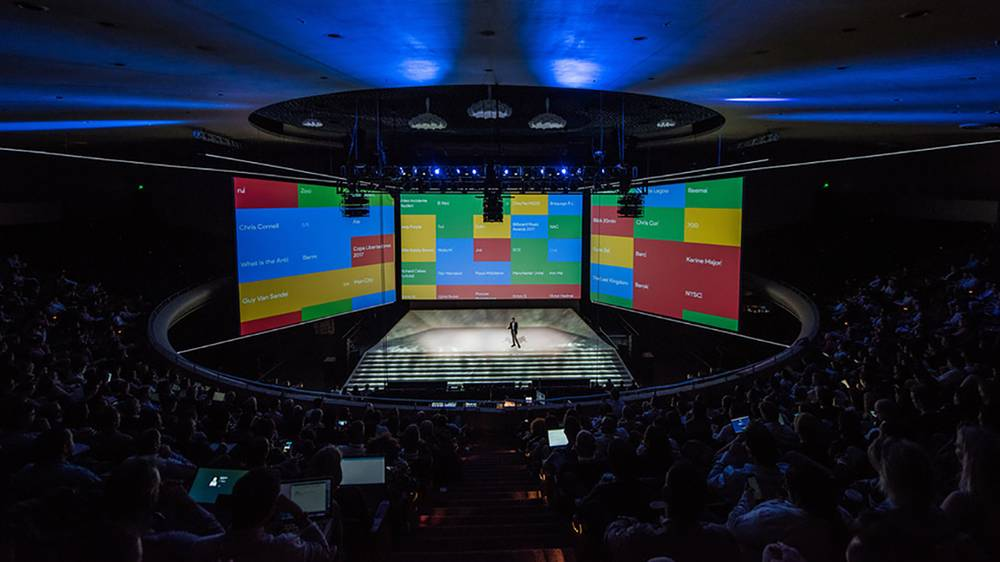
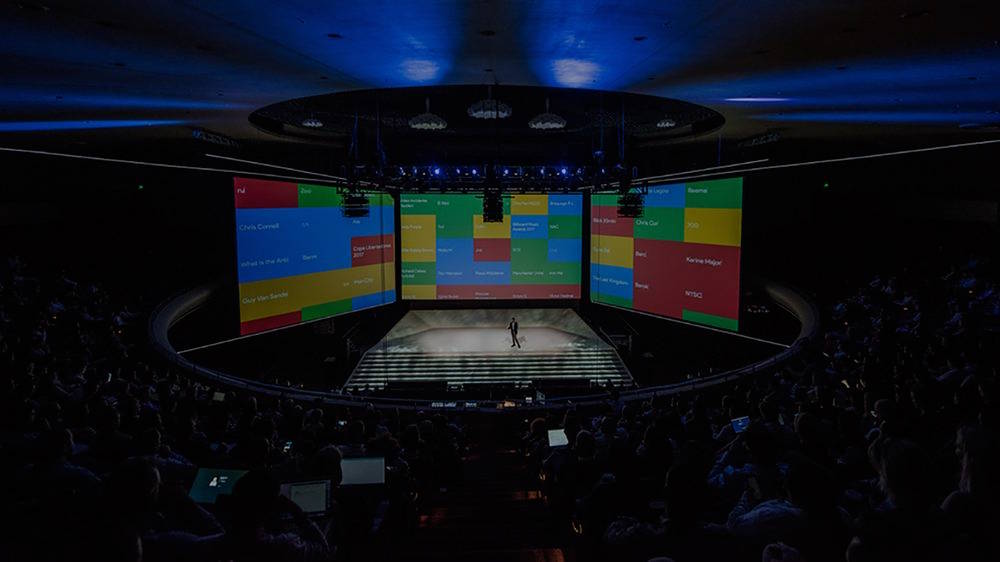
add media query to make site responsive to medium size devices

diff --git a/index.html b/index.html
@@ -37,39 +37,43 @@
             <p>Article - May 2017</p>
           </div>
         </div>
-        <div class="gallery-item youtube-image clearfix">
-          <img src="img/youtube-girl.jpg" alt="">
-          <div id="image-caption">
-            <h4>Inside Google Marketing: Testing a Media Plan That Leads With YouTube Bumper Ads</h4>
-            <p>Interview - May 2017</p>
+        <div class="row-1 clearfix">
+          <div class="gallery-item youtube-image clearfix">
+            <img src="img/youtube-girl.jpg" alt="">
+            <div id="image-caption">
+              <h4>Inside Google Marketing: Testing a Media Plan That Leads With YouTube Bumper Ads</h4>
+              <p>Interview - May 2017</p>
+            </div>
+          </div>
+          <div class="gallery-item hands-image clearfix">
+            <img src="img/hands.jpg" alt="">
+            <div id="image-caption">
+              <h4>The Consumer Behaviors Shaping the Next Generation of Mobile Experiences</h4>
+              <p>Perspective - May 2017</p>
+            </div>
           </div>
         </div>
-        <div class="gallery-item hands-image clearfix">
-          <img src="img/hands.jpg" alt="">
-          <div id="image-caption">
-            <h4>The Consumer Behaviors Shaping the Next Generation of Mobile Experiences</h4>
-            <p>Perspective - May 2017</p>
+        <div class="row-2 clearfix">
+          <div class="gallery-item streaming-image clearfix">
+            <img src="img/streaming-tv.png" alt="">
+            <div id="image-caption">
+              <h4>The Rise of Online Video on the TV Screen</h4>
+              <p>Infographic - May 2017</p>
+            </div>
           </div>
-        </div>
-        <div class="gallery-item streaming-image clearfix">
-          <img src="img/streaming-tv.png" alt="">
-          <div id="image-caption">
-            <h4>The Rise of Online Video on the TV Screen</h4>
-            <p>Infographic - May 2017</p>
+          <div class="gallery-item girls-image clearfix">
+            <img src="img/girls.jpg" alt="">
+            <div id="image-caption">
+              <h4>Travel Planning and Purchasing Has Evolved on Mobile</h4>
+              <p>Article - May 2017</p>
+            </div>
           </div>
-        </div>
-        <div class="gallery-item girls-image clearfix">
-          <img src="img/girls.jpg" alt="">
-          <div id="image-caption">
-            <h4>Travel Planning and Purchasing Has Evolved on Mobile</h4>
-            <p>Article - May 2017</p>
-          </div>
-        </div>
-        <div class="gallery-item-big boy" id="gen-z-image">
-          <img src="img/gen-z-boy.jpg" alt="">
-          <div class="big-image-caption">
-            <h4>Gen Z: A Look Inside Its Mobile-First Mindset</h4>
-            <p>Report - Apr 2017</p>
+          <div class="gallery-item-big boy" id="gen-z-image">
+            <img src="img/gen-z-boy.jpg" alt="">
+            <div class="big-image-caption">
+              <h4>Gen Z: A Look Inside Its Mobile-First Mindset</h4>
+              <p>Report - Apr 2017</p>
+            </div>
           </div>
         </div>
       </div>

diff --git a/css/styles.css b/css/styles.css
@@ -129,9 +129,9 @@ h2 "think"{
 
 }
 
-.youtube-image img {
+/*.youtube-image img {
   float: left;
-}
+}*/
 
 .big-image-caption {
   margin-top: -12vh;
@@ -158,16 +158,78 @@ clear: both;
 /* MEDIA QUERIES */
 
 /* Medium Devices, Wide Screens */
- @media only screen and (min-width : 800px) {
-   /*.gallery {
+ @media only screen and (min-width : 600px) {
+
+   .gallery {
      padding: 0;
    }
    .gallery-item {
-     height: 24vh;
-     width: 30vw;
-     margin: 1vh 4.7vw;
+     clear: none;
+     max-width: 40vw;
+     min-height: 45vh;
    }
- }*/
+
+   .gallery-item img {
+     max-width: 100%;
+     margin: 0 auto;
+   }
+
+   .gallery-item-big img {
+     z-index: -10;
+   }
+
+   .darken-image {
+     background: rgba(70, 72, 82, 0.6);
+   }
+
+   .gallery-item #image-caption {
+     max-width: 100%;
+     padding: 1.5em;
+     padding-bottom: 1em;
+   }
+
+   h4, p {
+     text-align: center;
+   }
+
+   .big-image-caption h4, .big-image-caption p {
+     text-align: left;
+   }
+
+   .youtube-image {
+     float: left;
+   }
+
+   .hands-image {
+     float: right;
+   }
+
+   .row-1 {
+     display:block;
+   }
+
+   .row-2 {
+     display: block;
+   }
+
+   .streaming-image {
+     float: left;
+   }
+
+   .girls-image {
+     float: right;
+   }
+/*
+   .boy {
+     clear: both;
+   }*/
+
+   .gallery-item-big{
+      overflow-y: hidden;
+      clear: both;
+      padding-bottom: 2em;
+   }
+ }
 
  /*Large screens*/
 
